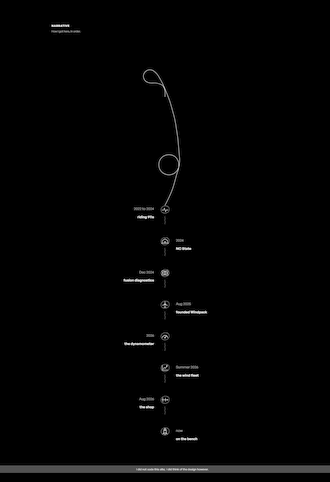
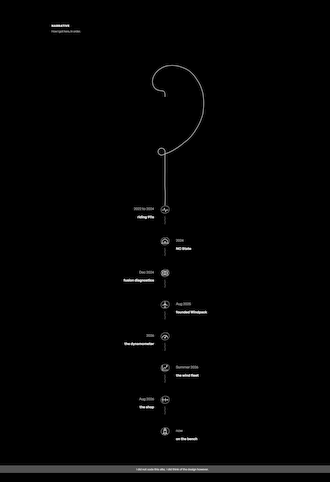
Rebuild the overture line in five stages, then take it back off them
The line is one parametric curve now, walked once from t=0 to t=5:
straight up, a quarter turn counter clockwise, a full turn clockwise
whose radius opens from 14 to 296, a three quarter turn clockwise, and a
straight down onto the rail. Each stage leaves on the heading the next
one arrives with.

The spiral's radius opens as a square rather than linearly, and that is
the part that makes the whole thing fit. There are only 150px above the
dot, and the square holds the radius nearly flat through the first half
turn, which is the half that goes over the top. Opening it linearly
spends the headroom before it is a quarter of the way round.

Two of the sliders turn out not to be free. The line finishes at
x = -R1 + R4, so tying R4 to R1 is what puts the last straight directly
under the dot instead of 40px to one side of the rail. L2 is then not
chosen at all, it is whatever is left between the curl and the rail once
the four stages above it have been placed. Everything else trades
against that 150px: spent on R3 it buys a long fall and a short dull
straight at the end, spent on R1 and R2 it buys a bigger opening hook
and a bigger closing curl, at about five pixels of tail per pixel of
radius.

This is tangent continuous but not curvature continuous, which is the
opposite of how the line was built before. Curvature flips sign where
the hook hands over to the spiral and steps from 1/296 to 1/15 going
into the curl. At these radii it reads as a hook and a curl rather than
[…]

diff --git a/index.html b/index.html
@@ -169,7 +169,7 @@
            alt="My other parent" />
 
       <svg class="ov-draw" viewBox="0 0 400 620" width="400" height="620" fill="none" aria-hidden="true">
-        <path class="ov-path" pathLength="100" d="M200 150 C 200 150, 200.9 131.3, 199.8 124 C 198.9 118.4, 197.6 113.9, 195.3 109.6 C 193.1 105.6, 190.9 101.8, 186.7 98.9 C 181 94.9, 170.7 92, 162.2 90.5 C 153.7 89, 143.1 91.1, 135.7 90 C 130.2 89.2, 125.7 88.2, 121.7 86.1 C 118 84.2, 114.8 81.6, 112.3 78.6 C 109.9 75.6, 107.9 71.8, 106.8 68.1 C 105.8 64.4, 105.4 60.1, 106 56.3 C 106.6 52.5, 108.2 48.5, 110.4 45.2 C 112.5 42, 115.6 39.1, 118.8 37 C 122.1 34.9, 125.9 33.2, 129.9 32.7 C 134.3 32.1, 139.4 32.3, 144.3 34.4 C 150.8 37, 158.8 44, 164.4 50.3 C 170.2 56.6, 174.1 64.6, 178.5 72.1 C 182.9 79.6, 186.9 87.3, 190.6 95.1 C 194.4 102.9, 197.6 111, 201 119 C 204.4 127, 207.7 134.9, 210.9 143 C 214.1 151.1, 217.3 159.1, 220.1 167.3 C 223 175.5, 225.3 183.8, 227.7 192.2 C 230.1 200.5, 232.4 208.9, 234.6 217.2 C 236.9 225.6, 239.3 233.9, 241.3 242.4 C 243.2 250.8, 244.8 259.4, 246.4 267.9 C 247.9 276.4, 249 285, 250.3 293.6 C 251.7 302.1, 253.2 310.7, 254.3 319.3 C 255.5 327.9, 256.6 336.5, 257.4 345.1 C 258.3 353.7, 258.7 362.4, 259.4 371 C 260.2 379.7, 261 388.2, 261.7 396.9 C 262.5 405.7, 263.8 414.5, 263.9 423.3 C 263.9 432.1, 263.7 441.6, 261.9 449.7 C 260.3 456.9, 257.9 463.9, 254.4 469.7 C 251.1 475, 246.9 479.9, 241.9 483.3 C 237 486.7, 230.8 489.2, 224.8 490.2 C 218.9 491.2, 212.3 490.9, 206.5 489.4 C 200.7 488, 194.7 485.3, 189.9 481.7 C 185.2 478.1, 180.8 473, 178 467.7 C 175.3 462.4, 173.6 456, 173.2 450 C 172.7 444.1, 173.5 437.5, 175.4 431.9 C 177.4 426.2, 180.8 420.5, 184.9 416.1 C 189.1 411.8, 194.7 408.2, 200.3 406 C 205.9 403.8, 212.4 402.6, 218.4 402.8 C 224.4 403, 230.9 404.5, 236.3 407.1 C 241.7 409.8, 246.8 414.1, 250.6 418.7 C 254.4 423.4, 257.3 428.8, 258.9 435 C 260.8 442.5, 260.7 452.6, 259.5 461.1 C 258.4 469.7, 254.6 476.9, 251.9 486.3 C 248.3 498.4, 243.8 515.9, 240.4 527.8 C 237.8 536.7, 236.3 542.6, 233.2 551.1 C 229.5 561.7, 224.2 574.4, 218.8 586.2 C 213.1 598.6, 200 624, 200 624"
+        <path class="ov-path" pathLength="100" d="M200 150 C 200 150, 200.3 141.5, 199.8 138 C 199.3 135.1, 198.9 132.6, 197.6 130.4 C 196.2 128.3, 194.5 126.3, 191.8 125 C 188 123.1, 180.6 124, 175.6 122.8 C 171 121.7, 166.5 120.7, 162.6 118.3 C 158.5 115.7, 154.6 111.7, 151.8 107.4 C 148.9 102.9, 146.9 97.2, 146 91.4 C 145 85.1, 145.1 77.7, 146.8 70.8 C 148.8 63.2, 153 55, 158.2 48 C 163.8 40.5, 171.9 33.1, 180 27.7 C 188 22.4, 197.7 18.3, 206.5 15.9 C 214.7 13.8, 223.1 13.5, 231.1 13.5 C 238.6 13.4, 245.7 14, 252.9 15.3 C 260.2 16.7, 267.2 18.9, 274.5 21.7 C 282.5 24.6, 291.2 28, 299 32.9 C 307.3 38.1, 315.7 45.4, 322.5 52.7 C 329 59.7, 334.3 68, 339.3 75.5 C 343.9 82.4, 348.2 89.1, 351.6 96 C 354.9 102.6, 357.3 109.1, 359.6 116.1 C 362.1 123.2, 364.4 130.4, 365.9 138.4 C 367.5 147.1, 368.1 156.7, 368.5 166.3 C 368.9 176.1, 368.7 186.8, 368.2 196.6 C 367.6 205.9, 367.1 215.1, 365.4 223.6 C 363.8 231.4, 361.2 238.6, 358.6 245.8 C 356.2 252.7, 353.7 259.1, 350.5 265.8 C 347.1 272.9, 343.2 279.8, 338.8 287 C 334.1 294.9, 328.9 303.6, 323 311.3 C 317 319.2, 310.1 327.2, 303.1 333.9 C 296.6 340.2, 289.4 345.4, 282.8 350.7 C 276.7 355.6, 271 360.3, 265 364.8 C 259.1 369.1, 253.3 373.1, 246.9 377 C 240 381.3, 232.7 385.6, 224.8 389.4 C 216.2 393.6, 204.3 398.1, 196.9 400.9 C 192.1 402.7, 188.5 404.8, 185 404.9 C 182.2 405, 179.5 404, 177.3 402.7 C 175.2 401.5, 173.1 399.4, 171.9 397.2 C 170.7 395.1, 169.9 392.3, 169.9 389.9 C 169.8 387.6, 170.5 384.9, 171.5 382.8 C 172.5 380.8, 174.3 378.8, 176.1 377.5 C 177.9 376.2, 180.1 375.3, 182.2 374.9 C 184.3 374.6, 186.6 374.7, 188.6 375.2 C 190.6 375.7, 192.6 376.6, 194.2 377.8 C 195.8 379, 197.2 380.6, 198.2 382.3 C 199.2 384, 199.7 385.3, 200.1 387.9 C 200.9 392.9, 199.7 402.8, 199.7 410.8 C 199.6 419.5, 199.7 429, 199.7 438.4 C 199.7 448.3, 199.8 458.9, 199.8 468.8 C 199.8 478.2, 199.6 487.5, 199.5 496.3 C 199.4 504.4, 199.4 512, 199.4 519.6 C 199.4 527, 199.2 533.9, 199.4 541.2 C 199.7 548.9, 200.7 556.6, 201 564.8 C 201.3 573.9, 201.3 583.7, 201.1 593.4 C 201 603.3, 200 621.7, 200 623.6 C 200 623.9, 200 624, 200 624"
               stroke="currentColor" stroke-width="1.7" stroke-linecap="round"
               vector-effect="non-scaling-stroke" />
       </svg>

diff --git a/assets/css/site.css b/assets/css/site.css
@@ -758,7 +758,7 @@ body.split { overflow: hidden; }
   /* offset-anchor already puts the middle of this box on the line. the old
      -7px margin that used to do that job by hand is still a shift on top of
      it, which is why the dot rode 10px up and left of its own pen tip. */
-  offset-path: path("M200 150 C 200 150, 200.9 131.3, 199.8 124 C 198.9 118.4, 197.6 113.9, 195.3 109.6 C 193.1 105.6, 190.9 101.8, 186.7 98.9 C 181 94.9, 170.7 92, 162.2 90.5 C 153.7 89, 143.1 91.1, 135.7 90 C 130.2 89.2, 125.7 88.2, 121.7 86.1 C 118 84.2, 114.8 81.6, 112.3 78.6 C 109.9 75.6, 107.9 71.8, 106.8 68.1 C 105.8 64.4, 105.4 60.1, 106 56.3 C 106.6 52.5, 108.2 48.5, 110.4 45.2 C 112.5 42, 115.6 39.1, 118.8 37 C 122.1 34.9, 125.9 33.2, 129.9 32.7 C 134.3 32.1, 139.4 32.3, 144.3 34.4 C 150.8 37, 158.8 44, 164.4 50.3 C 170.2 56.6, 174.1 64.6, 178.5 72.1 C 182.9 79.6, 186.9 87.3, 190.6 95.1 C 194.4 102.9, 197.6 111, 201 119 C 204.4 127, 207.7 134.9, 210.9 143 C 214.1 151.1, 217.3 159.1, 220.1 167.3 C 223 175.5, 225.3 183.8, 227.7 192.2 C 230.1 200.5, 232.4 208.9, 234.6 217.2 C 236.9 225.6, 239.3 233.9, 241.3 242.4 C 243.2 250.8, 244.8 259.4, 246.4 267.9 C 247.9 276.4, 249 285, 250.3 293.6 C 251.7 302.1, 253.2 310.7, 254.3 319.3 C 255.5 327.9, 256.6 336.5, 257.4 345.1 C 258.3 353.7, 258.7 362.4, 259.4 371 C 260.2 379.7, 261 388.2, 261.7 396.9 C 262.5 405.7, 263.8 414.5, 263.9 423.3 C 263.9 432.1, 263.7 441.6, 261.9 449.7 C 260.3 456.9, 257.9 463.9, 254.4 469.7 C 251.1 475, 246.9 479.9, 241.9 483.3 C 237 486.7, 230.8 489.2, 224.8 490.2 C 218.9 491.2, 212.3 490.9, 206.5 489.4 C 200.7 488, 194.7 485.3, 189.9 481.7 C 185.2 478.1, 180.8 473, 178 467.7 C 175.3 462.4, 173.6 456, 173.2 450 C 172.7 444.1, 173.5 437.5, 175.4 431.9 C 177.4 426.2, 180.8 420.5, 184.9 416.1 C 189.1 411.8, 194.7 408.2, 200.3 406 C 205.9 403.8, 212.4 402.6, 218.4 402.8 C 224.4 403, 230.9 404.5, 236.3 407.1 C 241.7 409.8, 246.8 414.1, 250.6 418.7 C 254.4 423.4, 257.3 428.8, 258.9 435 C 260.8 442.5, 260.7 452.6, 259.5 461.1 C 258.4 469.7, 254.6 476.9, 251.9 486.3 C 248.3 498.4, 243.8 515.9, 240.4 527.8 C 237.8 536.7, 236.3 542.6, 233.2 551.1 C 229.5 561.7, 224.2 574.4, 218.8 586.2 C 213.1 598.6, 200 624, 200 624");
+  offset-path: path("M200 150 C 200 150, 200.3 141.5, 199.8 138 C 199.3 135.1, 198.9 132.6, 197.6 130.4 C 196.2 128.3, 194.5 126.3, 191.8 125 C 188 123.1, 180.6 124, 175.6 122.8 C 171 121.7, 166.5 120.7, 162.6 118.3 C 158.5 115.7, 154.6 111.7, 151.8 107.4 C 148.9 102.9, 146.9 97.2, 146 91.4 C 145 85.1, 145.1 77.7, 146.8 70.8 C 148.8 63.2, 153 55, 158.2 48 C 163.8 40.5, 171.9 33.1, 180 27.7 C 188 22.4, 197.7 18.3, 206.5 15.9 C 214.7 13.8, 223.1 13.5, 231.1 13.5 C 238.6 13.4, 245.7 14, 252.9 15.3 C 260.2 16.7, 267.2 18.9, 274.5 21.7 C 282.5 24.6, 291.2 28, 299 32.9 C 307.3 38.1, 315.7 45.4, 322.5 52.7 C 329 59.7, 334.3 68, 339.3 75.5 C 343.9 82.4, 348.2 89.1, 351.6 96 C 354.9 102.6, 357.3 109.1, 359.6 116.1 C 362.1 123.2, 364.4 130.4, 365.9 138.4 C 367.5 147.1, 368.1 156.7, 368.5 166.3 C 368.9 176.1, 368.7 186.8, 368.2 196.6 C 367.6 205.9, 367.1 215.1, 365.4 223.6 C 363.8 231.4, 361.2 238.6, 358.6 245.8 C 356.2 252.7, 353.7 259.1, 350.5 265.8 C 347.1 272.9, 343.2 279.8, 338.8 287 C 334.1 294.9, 328.9 303.6, 323 311.3 C 317 319.2, 310.1 327.2, 303.1 333.9 C 296.6 340.2, 289.4 345.4, 282.8 350.7 C 276.7 355.6, 271 360.3, 265 364.8 C 259.1 369.1, 253.3 373.1, 246.9 377 C 240 381.3, 232.7 385.6, 224.8 389.4 C 216.2 393.6, 204.3 398.1, 196.9 400.9 C 192.1 402.7, 188.5 404.8, 185 404.9 C 182.2 405, 179.5 404, 177.3 402.7 C 175.2 401.5, 173.1 399.4, 171.9 397.2 C 170.7 395.1, 169.9 392.3, 169.9 389.9 C 169.8 387.6, 170.5 384.9, 171.5 382.8 C 172.5 380.8, 174.3 378.8, 176.1 377.5 C 177.9 376.2, 180.1 375.3, 182.2 374.9 C 184.3 374.6, 186.6 374.7, 188.6 375.2 C 190.6 375.7, 192.6 376.6, 194.2 377.8 C 195.8 379, 197.2 380.6, 198.2 382.3 C 199.2 384, 199.7 385.3, 200.1 387.9 C 200.9 392.9, 199.7 402.8, 199.7 410.8 C 199.6 419.5, 199.7 429, 199.7 438.4 C 199.7 448.3, 199.8 458.9, 199.8 468.8 C 199.8 478.2, 199.6 487.5, 199.5 496.3 C 199.4 504.4, 199.4 512, 199.4 519.6 C 199.4 527, 199.2 533.9, 199.4 541.2 C 199.7 548.9, 200.7 556.6, 201 564.8 C 201.3 573.9, 201.3 583.7, 201.1 593.4 C 201 603.3, 200 621.7, 200 623.6 C 200 623.9, 200 624, 200 624");
   offset-rotate: 0deg;
   offset-anchor: 50% 50%;
   offset-distance: 0%;

diff --git a/README.md b/README.md
@@ -44,34 +44,50 @@ line is generated by `.claude/make_overture_path.py`, which prints the `d` strin
 to be pasted in **two** places that must stay identical, or the dot will drift off the
 line: the `.ov-path` `d` in `index.html` and the `offset-path` in `site.css`.
 
-The generator is a **curvature program**, not a set of arcs. Arcs are easy to place but
-they step the curvature at every join, and a straight run into a radius 38 arc snaps from
-0 to 1/38, which the eye reads as a corner even though the line is continuous. So the line
-is described as how hard it is turning at each point along its length, and that value is
-ramped rather than stepped: curvature is continuous everywhere, and a sign change through
-zero is an inflection rather than a kink.
+The line is **one parametric curve in five stages**, walked once from `t=0` to `t=5`:
+straight up `L1`, a quarter turn counter clockwise at `R1`, a full turn clockwise whose
+radius opens from `R2` to `R3`, a three quarter turn clockwise at `R4`, and a straight
+`L2` down onto the rail. Each stage leaves on the heading the next one arrives with, so
+it is a single drawn line rather than five pieces laid end to end.
 
-Each stretch is `(name, how much, radius in, radius out)`. "How much" is `("len", px)` or
-`("turn", degrees)`, where the length is solved from the radii so the line aims itself.
-Radii are signed: negative is counter clockwise on screen, positive clockwise. Things that
-took a while to learn and are easy to undo by accident:
+The spiral's radius opens as `r(u) = R2 + (R3 - R2) u^2`, and the square is not
+decoration. It holds the radius nearly flat through the first half turn, which is the
+half that goes over the top. A spiral that opened linearly would have spent the headroom
+before it was a quarter of the way round.
 
-- **Curvature ramps by length, not by turn.** A stretch that starts tight spends nearly
-  all of its turn in the first 50px, whatever radius it is heading for. So a single ramp
-  out of a tight radius cannot give a long gentle sweep: it has to let go fast first, then
-  keep opening slowly over a long stretch. Asking such a stretch for a turn rather than a
-  length gets a curve that just circles back on itself.
-- **Clockwise from pointing down means going left.** The line reaches its rightmost point
-  at the moment it points straight down, and everything after that moves back left, which
-  is what decides where the loop can sit.
-- **Headroom decides the top.** There are only 150px above the dot, the counter clockwise
-  quarter turn spends some of it, and the clockwise turn after it climbs again before it
-  comes round, so the radii up there have to stay small.
-- **Sampling has to follow curvature.** 26px between fit points is fine down the long fall
-  and far too coarse round a radius 28 loop, where it cuts the corner off the very curve
-  the program exists to keep smooth.
-- A near straight stretch is not straight: at radius 900 over 270px it still bends 17
-  degrees, which quietly wrecks the heading arithmetic. Use `STRAIGHT`.
+Two of the sliders are not free. In the stage's own pixels, origin at the dot and y
+counted up the page, the line finishes at `x = -R1 + R4` and
+`y = L1 + R1 + R2 - R3 + R4 - L2`, so:
+
+- **`R4 = R1` is what puts the last straight under the dot.** Break that tie and the line
+  ends off to one side of the rail, and the dot has to be dragged back to meet it.
+- **`L2` is not chosen, it is what is left** between the curl and the rail once the four
+  stages above it have been placed. The script solves it.
+- **Headroom decides everything else.** The top of the spiral sits about
+  `L1 + R1 + 1.63 R2 + 0.29 R3` above the dot and there are only 150px to spend. Spent on
+  `R3` they buy a long fall and a short dull straight at the end; spent on `R1` and `R2`
+  they buy a bigger opening hook and a bigger closing curl, at about five pixels of that
+  straight tail for every pixel of radius.
+- **The joins are tangent continuous, not curvature continuous.** Curvature flips sign
+  where the hook hands over to the spiral, and steps from 1/296 to 1/15 going into the
+  curl. That is what the formulation asks for, and at these radii it reads as a hook and
+  a curl rather than as a fault. It is worth knowing it is there, though: the line this
+  replaced was a curvature program that ramped every join rather than stepping it, which
+  is the other way to build this and the way to go back to if a join ever looks bent.
+- **Nothing drawn by hand sits on its own ideal.** The curve above is only where the
+  line is aiming. It is then sampled, every sample is pushed sideways by a little noise,
+  and a centripetal Catmull Rom runs through what is left. Take the wobble out and the
+  line goes back to looking printed.
+- **The noise is in arc length, not sample index.** That is what keeps the wobble the
+  same size in pixels whether it lands on the curl, where the samples are 7px apart, or
+  on the straight, where they are 26px. Four sines with no common period, so it never
+  repeats; the amplitude comes down where the line is tight, because 1.4px on a 15px
+  curl is a lump rather than a wobble; and it tapers to nothing at both ends, so the dot
+  still leaves the bounce straight up and still meets the rail straight down.
+- **Sampling has to follow curvature.** 26px between fit points is fine down the long
+  fall and far too coarse round the curl, where it cuts the corner off the very curve
+  this was built to keep smooth. The spacing is jittered on top of that, because a hand
+  does not put its marks down on a ruler either.
 
 `projects/rocket-avionics.html` is **unlisted**: it is not linked from the index and is
 marked `noindex`. It goes back on the index once the project has flown.
